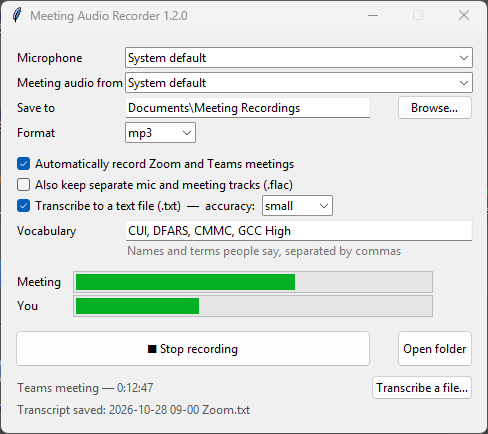
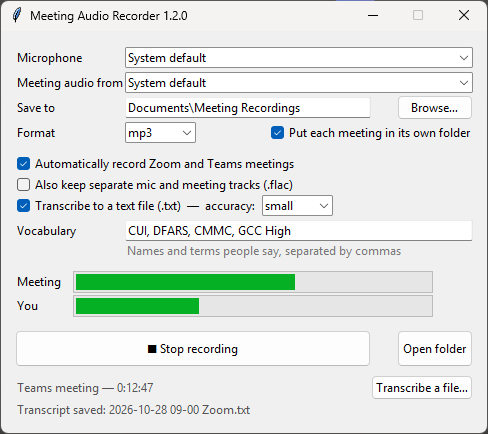
Save each meeting in its own dated folder
Recordings, transcripts and tracks now go in "<date> <time> <app>\" inside the
Save to folder, with " (2)" added rather than overwriting a recording from the
same minute. "Put each meeting in its own folder" (on by default) and
--no-folders turn it off.

Changed region(s): [[0.5533, 0.2696, 0.9836, 0.3295], [0.0615, 0.03, 0.3996, 0.0599], [0.9221, 0.03, 0.9529, 0.0599]]

diff --git a/meeting_recorder/audio.py b/meeting_recorder/audio.py
@@ -144,11 +144,12 @@ class Recorder:
     """Records meeting audio + microphone. Call start(), then stop() to get the saved Recording."""
 
     def __init__(self, out_dir, mic_index=None, speaker_index=None, fmt="mp3",
-                 mic_gain=1.0, meeting_gain=1.0):
+                 own_folder=True, mic_gain=1.0, meeting_gain=1.0):
         self.out_dir = Path(out_dir)
         self.mic_index = mic_index
         self.speaker_index = speaker_index
         self.fmt = fmt
+        self.own_folder = own_folder  # put each recording in its own "<date> <time> <label>" folder
         self.mic_gain = mic_gain
         self.meeting_gain = meeting_gain
         self.started_at = None
@@ -168,9 +169,24 @@ class Recorder:
         """Peak level (0..1) of the latest buffer for 'meeting' and 'mic'."""
         return {name: t.level for name, t in self._tracks.items()}
 
+    def _new_base(self, label):
+        """Path (without extension) for a new recording, e.g. .../2026-10-28 14-30 Teams/2026-10-28 14-30 Teams.
+
+        Adds " (2)", " (3)"… rather than overwrite an earlier recording from the same minute.
+        """
+        stamp = f"{time.strftime('%Y-%m-%d %H-%M')} {label}"
+        n = 1
+        while True:
+            name = stamp if n == 1 else f"{stamp} ({n})"
+            folder = self.out_dir / name if self.own_folder else self.out_dir
+            taken = folder.exists() if self.own_folder else Path(f"{folder / name}.{self.fmt}").exists()
+            if not taken:
+                folder.mkdir(parents=True, exist_ok=True)
+                return folder / name
+            n += 1
+
     def start(self, label="Meeting"):
-        self.out_dir.mkdir(parents=True, exist_ok=True)
-        self._base = self.out_dir / f"{time.strftime('%Y-%m-%d %H-%M')} {label}"
+        self._base = self._new_base(label)
         self._p = pyaudio.PyAudio()
         try:
             wasapi = self._p.get_host_api_info_by_type(pyaudio.paWASAPI)
@@ -196,6 +212,10 @@ class Recorder:
             self._tracks["mic"] = _Track(self._p, mic, f"{self._base} - mic.flac")
         except Exception:
             self._close_streams()
+            for track in ("meeting", "mic"):
+                Path(f"{self._base} - {track}.flac").unlink(missing_ok=True)
+            if self.own_folder and not any(self._base.parent.iterdir()):
+                self._base.parent.rmdir()
             raise
         self.started_at = time.monotonic()
         return self

diff --git a/meeting_recorder/app.py b/meeting_recorder/app.py
@@ -52,6 +52,7 @@ class App:
         self.fmt_var = tk.StringVar(value=s.get("format", "mp3"))
         self.auto_var = tk.BooleanVar(value=s.get("auto", True))
         self.tracks_var = tk.BooleanVar(value=s.get("keep_tracks", False))
+        self.folder_var = tk.BooleanVar(value=s.get("own_folder", True))
         self.transcribe_var = tk.BooleanVar(value=s.get("transcribe", True))
         self.model_var = tk.StringVar(value=s.get("model") if s.get("model") in MODELS else DEFAULT_MODEL)
         self.vocab_var = tk.StringVar(value=s.get("vocabulary", ""))
@@ -89,6 +90,8 @@ class App:
         ttk.Label(f, text="Format").grid(row=3, column=0, sticky="w")
         ttk.Combobox(f, textvariable=self.fmt_var, values=list(FORMATS), state="readonly",
                      width=8).grid(row=3, column=1, sticky="w", pady=2)
+        ttk.Checkbutton(f, text="Put each meeting in its own folder", variable=self.folder_var,
+                        command=self._save).grid(row=3, column=1, columnspan=2, sticky="e")
 
         ttk.Checkbutton(f, text="Automatically record Zoom and Teams meetings",
                         variable=self.auto_var, command=self._save).grid(row=4, column=0, columnspan=3, sticky="w", pady=(8, 0))
@@ -131,7 +134,8 @@ class App:
     def _save(self):
         save_settings({
             "mic": self.mic_var.get(), "speaker": self.speaker_var.get(), "out_dir": self.out_var.get(),
-            "format": self.fmt_var.get(), "auto": self.auto_var.get(), "keep_tracks": self.tracks_var.get(),
+            "format": self.fmt_var.get(), "own_folder": self.folder_var.get(),
+            "auto": self.auto_var.get(), "keep_tracks": self.tracks_var.get(),
             "transcribe": self.transcribe_var.get(), "model": self.model_var.get(),
             "vocabulary": self.vocab_var.get(),
         })
@@ -171,6 +175,7 @@ class App:
             mic_index=self._device_index(self.mic_var.get(), self.mics),
             speaker_index=self._device_index(self.speaker_var.get(), self.speakers),
             fmt=self.fmt_var.get(),
+            own_folder=self.folder_var.get(),
         )
         try:
             recorder.start(label)

diff --git a/meeting_recorder/cli.py b/meeting_recorder/cli.py
@@ -19,6 +19,8 @@ def parse_args(argv=None):
     ap.add_argument("--out", default=DEFAULT_OUT, help="folder to save recordings in")
     ap.add_argument("--format", choices=list(FORMATS), default="mp3")
     ap.add_argument("--keep-tracks", action="store_true", help="also keep separate mic/meeting .flac files")
+    ap.add_argument("--no-folders", action="store_true",
+                    help="save recordings straight into --out instead of one folder per meeting")
     ap.add_argument("--duration", type=float, help="stop after this many seconds")
     ap.add_argument("--transcribe", action="store_true", help="also save a .txt transcript of each recording")
     ap.add_argument("--model", choices=list(MODELS), default=DEFAULT_MODEL,
@@ -45,7 +47,7 @@ def run(args):
         return
 
     def new_recorder():
-        return Recorder(args.out, args.mic, args.speaker, args.format)
+        return Recorder(args.out, args.mic, args.speaker, args.format, own_folder=not args.no_folders)
 
     def save(recorder):
         print("Saving…")

diff --git a/meeting_recorder/__init__.py b/meeting_recorder/__init__.py
@@ -1,2 +1,2 @@
 """Meeting Audio Recorder: record Zoom/Teams meeting audio plus your microphone on Windows."""
-__version__ = "1.2.0"
+__version__ = "1.3.0"

diff --git a/README.md b/README.md
@@ -23,7 +23,16 @@ Get `MeetingAudioRecorder.exe` (about 100 MB) from the [latest release](../../re
 2. Choose your **Microphone** (your USB mic) and the **Meeting audio from** device (the speakers or headset you hear the meeting through). Leave either on *System default* to follow Windows.
 3. Leave **Automatically record Zoom and Teams meetings** ticked and keep the window open (minimizing it is fine).
 4. Join a meeting. The status line switches to *"Zoom meeting — 0:00:12"*, and the level bars move for **Meeting** and **You**.
-5. When you leave the meeting, the recording is saved to `Documents\Meeting Recordings` as e.g. `2026-10-28 14-30 Teams.mp3`. A few minutes later, `2026-10-28 14-30 Teams.txt` appears next to it.
+5. When you leave the meeting, the recording is saved in its own folder, named with the date, time and app:
+
+   ```
+   Documents\Meeting Recordings\
+     2026-10-28 14-30 Teams\
+       2026-10-28 14-30 Teams.mp3
+       2026-10-28 14-30 Teams.txt      ← appears a few minutes later
+   ```
+
+   Untick **Put each meeting in its own folder** to save everything straight into the **Save to** folder instead.
 
 You can also press **Start recording** / **Stop recording** at any time to record by hand, or use **Transcribe a file…** to make a transcript of any audio file you already have.
 
@@ -88,6 +97,7 @@ python -m meeting_recorder --list-devices           # show mics and speakers
 python -m meeting_recorder --cli                    # record now, Ctrl+C to stop
 python -m meeting_recorder --auto --mic 30          # wait for meetings, use mic #30
 python -m meeting_recorder --cli --format flac --keep-tracks --out D:\Recordings
+python -m meeting_recorder --cli --no-folders       # don't make a folder per meeting
 python -m meeting_recorder --auto --transcribe --vocabulary "CUI, DFARS, CMMC"   # record and transcribe every meeting
 python -m meeting_recorder --transcribe-file "old meeting.mp3"   # transcribe an existing file
 ```
